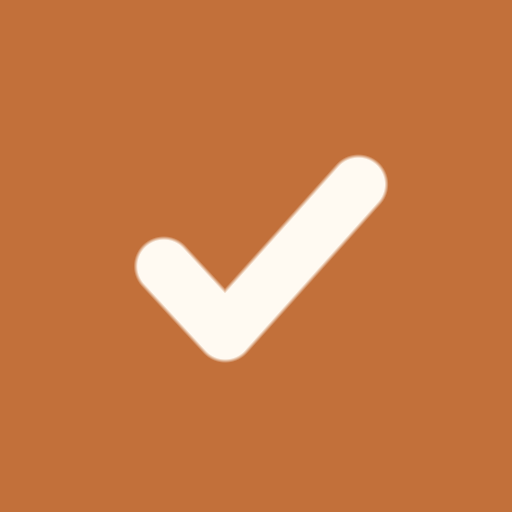
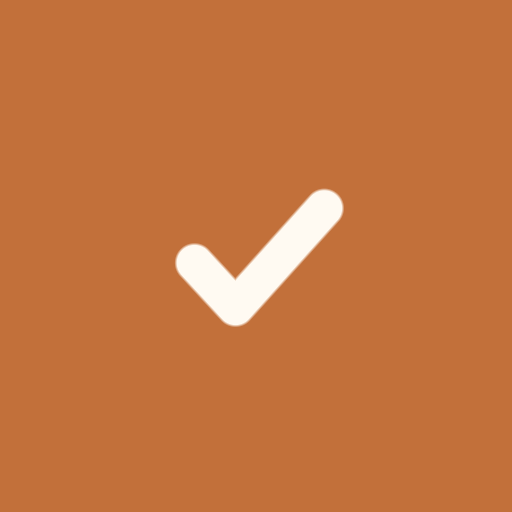
시작 화면 로고를 실제로 줄이고, 아이콘이 저절로 갈아끼워지게 한다 (D-029·D-030)
D-028 은 다른 자리를 고쳤다. 스크린샷의 로고가 스퀘어클인 것으로 보아
시작 화면은 여백 있는 any 가 아니라 꽉 채운 maskable 을 잘라 그린다.
주황 타일은 237dp = 안드로이드 12+ 고정 규격 240dp 라 못 줄인다.
정작 큰 것은 그 안의 체크였다 — 마스크가 1.5배로 확대해 자르는 탓에
캔버스의 49% 가 화면에서는 타일의 74% 가 됐다 (권장 67% 초과).

- 꽉 채운 아이콘의 체크를 72/108 만큼 미리 줄인다. 마스크 뒤 48% 로,
  맥·any 아이콘의 체크와 같은 비율이 된다 (D-030)
- 매니페스트 아이콘 src 에 파일 내용 지문을 ?v= 로 찍는다. 주소가
  바뀌어야 크롬이 갈아끼우므로, 이제 재설치가 필요 없다 (D-029)
- sw 가 아이콘 이름을 직접 적지 않고 매니페스트에서 읽는다. v4 → v5
- 회귀 검사 9번: 지문이 실제 파일과 맞는가, purpose 둘 다 있는가,
  sw 가 이름을 다시 적지 않았는가. 일부러 깨뜨려 잡히는 것까지 확인

검사 197건 + 9번 통과. 마스크를 흉내 내어 그리니 전 그림이 스크린샷과
일치했다. 실기 확인은 아직 — 자동 갱신은 하루 안팎 걸린다.

Claude-Session: https://claude.ai/code/session_01LyNqfSHhK1tNkpEyans6zy

Changed region(s): [[0.25, 0.2812, 0.7812, 0.7188]]

diff --git a/sw.js b/sw.js
@@ -5,13 +5,33 @@
  *   이 앱에서 "전 기기가 같은 루틴을 본다"는 것이 오프라인보다 중요하므로,
  *   항상 새것을 먼저 받아보고 안 되면(비행기 모드 등) 캐시를 쓴다.
  */
-const CACHE = 'routine-v4';
-const ASSETS = ['./', './index.html', './manifest.webmanifest',
-                './icon-192.png', './icon-512.png',
-                './icon-inset-192.png', './icon-inset-512.png'];
+const CACHE = 'routine-v5';
+
+/* 미리 담아 둘 것. **아이콘 이름은 여기에 적지 않는다** — 매니페스트에서 읽는다 (D-029).
+ *   두 곳에 적어 두면 아이콘이 늘거나 이름이 바뀔 때 한쪽을 잊게 되고,
+ *   그 어긋남은 오프라인에서만 조용히 드러나 알아채기 어렵다.
+ *   매니페스트의 `src` 에는 지문(`?v=`)이 붙어 있으므로 그대로 가져다 쓴다. */
+const BASE = ['./', './index.html', './manifest.webmanifest'];
+
+async function assetList() {
+  try {
+    const res = await fetch('./manifest.webmanifest', { cache: 'reload' });
+    const icons = (await res.json()).icons || [];
+    return BASE.concat(icons.map((i) => './' + i.src));
+  } catch (e) {
+    return BASE;          // 매니페스트를 못 읽어도 설치는 된다
+  }
+}
 
 self.addEventListener('install', (e) => {
-  e.waitUntil(caches.open(CACHE).then((c) => c.addAll(ASSETS)).then(() => self.skipWaiting()));
+  e.waitUntil(
+    assetList()
+      .then((list) => caches.open(CACHE).then((c) => c.addAll(list)))
+      // 하나라도 못 받으면 캐시는 비워 둔 채 넘어간다. 미리 담기에 실패했다고
+      // 서비스워커 설치까지 실패하면, 온라인인데도 앱이 갱신을 못 받게 된다
+      .catch(() => {})
+      .then(() => self.skipWaiting())
+  );
 });
 
 self.addEventListener('activate', (e) => {

diff --git a/tools/make-icons.py b/tools/make-icons.py
@@ -5,8 +5,9 @@
 
 만드는 것
     icon-192.png, icon-512.png              캔버스를 꽉 채운다. 파비콘·iOS 홈 화면·
-                                            안드로이드 홈 화면(maskable). OS 가 마스크로
-                                            잘라내는 자리들이다
+                                            안드로이드 홈 화면·시작 화면(maskable).
+                                            OS 가 마스크로 잘라내는 자리들이라,
+                                            체크는 잘릴 것을 미리 계산해 줄여 그린다 (D-030)
     icon-inset-192.png, icon-inset-512.png  824/1024 둥근 사각형 + 투명 여백.
                                             매니페스트의 `any` — 안드로이드 시작 화면
                                             (스플래시)이 이것을 자른 데 없이 그대로 그린다
@@ -18,8 +19,11 @@
     (D-028). 애플 표준 비율은 1024 안의 824(=80.5%), 모서리 반경은 그 크기의 약 22.4% 다.
 """
 
+import hashlib
+import json
 import math
 import os
+import re
 import struct
 import zlib
 
@@ -68,12 +72,27 @@ def check_alpha(nx, ny):
     return max(0.0, min(1.0, (STROKE - d) / 0.008 + 0.5))
 
 
-# ── 웹·안드로이드용: 꽉 채운 정사각형 ────────────────────────────────
+# ── 꽉 채운 정사각형 — 마스크가 잘라내는 자리용 ──────────────────────
+#
+# 안드로이드는 이 그림을 **그대로 쓰지 않는다.** 적응형 아이콘 규격에 따라
+# 가운데 72/108(=66.7%)만 남기고 1.5배로 확대해 마스크 모양으로 자른다.
+# 그래서 체크를 캔버스 기준으로 그리면 화면에서는 1.5배로 부풀어 보인다.
+#
+# 실제로 그랬다 — 시작 화면에서 체크가 타일의 74% 를 차지했고, 이는 안드로이드가
+# 권장하는 67%(240dp 아이콘 안의 160dp)를 넘는다. 그래서 **미리 그 배율만큼
+# 줄여 둔다.** 줄이고 나면 마스크를 거친 뒤가 여백 있는 아이콘(맥·시작 화면)의
+# 체크와 같은 비율이 된다 — 어느 자리에서 봐도 같은 크기로 보인다는 뜻이다 (D-030).
+MASK_VISIBLE = 72 / 108.0
+
+
 def full_bleed(size):
     def rows(y, n):
         out = bytearray()
         for x in range(n):
-            r, g, b = blend(check_alpha((x + 0.5) / n, (y + 0.5) / n))
+            # 가운데를 기준으로 좌표를 넓혀 잡으면 그려지는 체크는 그만큼 작아진다
+            nx = 0.5 + ((x + 0.5) / n - 0.5) / MASK_VISIBLE
+            ny = 0.5 + ((y + 0.5) / n - 0.5) / MASK_VISIBLE
+            r, g, b = blend(check_alpha(nx, ny))
             out += bytes((r, g, b))
         return out
     return rows
@@ -108,6 +127,50 @@ def inset_icon(size):
     return rows
 
 
+# ── 매니페스트에 아이콘 지문을 찍는다 (D-029) ──────────────────────
+#
+# 크롬은 설치된 앱의 아이콘이 바뀌었는지를 **주소**로 먼저 판정한다. 파일 이름을
+# 그대로 두고 그림만 바꾸면 "안 바뀌었다"고 보고 넘어가, 기기에서는 옛 아이콘이
+# 계속 뜬다. 그래서 파일 내용의 지문을 `?v=` 로 붙여 **그림이 바뀌면 주소도 반드시
+# 바뀌게** 한다. 그림이 그대로면 지문도 그대로라 쓸데없는 갱신은 일어나지 않는다.
+
+SRC_RE = re.compile(r'"src":\s*"([A-Za-z0-9._-]+\.png)(?:\?v=[0-9a-f]+)?"')
+
+
+def fingerprint(name):
+    with open(os.path.join(HERE, name), 'rb') as f:
+        return hashlib.sha256(f.read()).hexdigest()[:8]
+
+
+def stamp_manifest():
+    path = os.path.join(HERE, 'manifest.webmanifest')
+    with open(path, encoding='utf-8') as f:
+        before = f.read()
+
+    seen = []
+
+    def repl(m):
+        name = m.group(1)
+        v = fingerprint(name)
+        seen.append((name, v))
+        return f'"src": "{name}?v={v}"'
+
+    after = SRC_RE.sub(repl, before)
+
+    # 고친 것이 여전히 올바른 JSON 인지 반드시 확인한다 — 매니페스트가 깨지면
+    # 앱이 홈 화면에서 아예 앱처럼 뜨지 않는다
+    json.loads(after)
+
+    if after != before:
+        with open(path, 'w', encoding='utf-8') as f:
+            f.write(after)
+
+    print('\n  매니페스트 아이콘 지문' + ('' if after != before else ' (바뀐 것 없음)'))
+    for name, v in seen:
+        print(f'    {name:<22} ?v={v}')
+    return after != before
+
+
 def main():
     for s in (192, 512):
         p = os.path.join(HERE, f'icon-{s}.png')
@@ -123,6 +186,8 @@ def main():
     p = os.path.join(HERE, 'mac', 'icon-mac-1024.png')
     n = write_png(p, 1024, inset_icon(1024), rgba=True)
     print(f'  mac/icon-mac-1024.png  {n:>9,} 바이트   (맥, 824/1024 여백 + 둥근 모서리)')
+
+    stamp_manifest()
 
 
 if __name__ == '__main__':

diff --git a/docs/STATUS.md b/docs/STATUS.md
@@ -19,8 +19,11 @@ https://powerprana7.github.io/morning-evening-routine/ · `routine.app`
 같은 날 **뷰 방식을 루틴의 성질로** 옮겼다 — 순서가 중요한 루틴은 한 항목씩,
 출국 전 체크리스트처럼 순서와 무관한 것은 전체 목록으로 열린다 (D-024).
 목록 뷰는 **순서와 무관하게 아무 줄이나 체크**하고, 끝낸 것은 아래로 내려간다 (D-025).
-2026-09-03 에 **안드로이드 시작 화면(스플래시) 로고를 적당한 크기로** 줄였다 —
-여백을 가진 아이콘을 따로 만들어 그 자리에만 물렸다 (D-028).
+2026-09-03 에 **안드로이드 시작 화면(스플래시) 로고**를 줄였다. 원인은 타일 크기가
+아니라 그 안의 체크였고(타일 240dp 는 안드로이드 고정 규격이라 못 바꾼다), 마스크가
+1.5배로 확대해 자르는 만큼을 미리 빼서 **74% → 48%** 로 줄였다 (D-030).
+같은 날 **아이콘 주소에 지문(`?v=`)이 붙어 저절로 갈아끼워진다** — 이제 아이콘을
+고쳐도 **지우고 다시 설치할 필요가 없다.** 다만 즉시가 아니라 **하루 안팎**이다 (D-029).
 
 ⚠ **`수련과 운동` 7개는 아직 자리표시자다** — 실제 목록을 받아야 한다 (B-27).
 출국 전 체크리스트는 2026-08-28 에 실제 목록 41개로 교체했다 (B-28).
@@ -36,8 +39,8 @@ https://powerprana7.github.io/morning-evening-routine/ · `routine.app`
 | 항목 화면 뷰 | 같은 파일 | **동작** — 루틴이 `one`/`list` 를 정한다. 오른쪽 위 버튼으로 그 회차만 뒤집을 수 있고 저장되지 않는다 (D-024) |
 | 화면 톤 | 같은 파일 | **동작** — 루틴 넷 다 `theme: 'auto'` 로 기기의 밝게/어둡게 설정을 따른다. 이브닝 강제 어둡게는 뺐다 (D-027) |
 | 목록 뷰 체크 | 같은 파일 | **동작** — 줄마다 `완료` 단추. 순서와 무관하고, 끝낸 줄은 아래로 내려가 흐려진다. `✓` 로 취소 (D-025) |
-| 회귀 검사 | `tools/check.sh` | **동작** — **197건 통과**. 루틴이 늘면 검사도 늘어난다 (D-023~D-025). 의존성 0 (JavaScriptCore) |
-| 배포 껍데기 | `manifest.webmanifest`, `sw.js`, `icon-*.png` | **작성됨 · ⚠일부 미검증** — 설치·갱신은 검증됐고(D-014·D-017), **아이콘 다섯 벌 분리(D-028)는 실기 ⚠미확인** |
+| 회귀 검사 | `tools/check.sh` | **동작** — **197건 + 배포 껍데기 검사(9번) 통과**. 루틴이 늘면 검사도 늘어난다 (D-023~D-025). 의존성 0 (JavaScriptCore) |
+| 배포 껍데기 | `manifest.webmanifest`, `sw.js`, `icon-*.png` | **작성됨 · ⚠일부 미검증** — 설치·갱신은 검증됐다(D-014·D-017). 아이콘 주소에 지문이 붙어 **재설치 없이 갈아끼워진다**(D-029). **아이콘 변경(D-028·D-030)은 실기 ⚠미확인** |
 | GitHub Pages | — | **배포됨** — https://powerprana7.github.io/morning-evening-routine/ (B-11) |
 
 ## 검증 상태 — 정확히 어디까지 확인했나
@@ -66,7 +69,8 @@ https://powerprana7.github.io/morning-evening-routine/ · `routine.app`
 | GitHub Pages 배포 | ✅검증 (2026-08-17) | 안드로이드 크롬에서 접속 확인 |
 | **배포본이 기기에 도달하는가** | ✅검증 (2026-08-17) | 두 번째 push(모닝 26개)도 도달. 첫 방문이 아니어도 갱신된다는 뜻이라 **서비스워커 캐시 갱신까지 확인됨** |
 | 안드로이드 홈 화면 설치 | ✅검증 (2026-08-17) | `Routine` 이름으로 설치됨 |
-| **시작 화면 로고 크기 (D-028)** | ⚠미검증 | 크림 바탕 위에 전/후를 나란히 그려 눈으로만 봤다. **안드로이드 실기에서는 못 봤다** — 이미 설치된 앱은 **지우고 다시 설치**해야 새 아이콘이 반영된다 |
+| **시작 화면 로고 크기 (D-030)** | ⚠미검증 | 사용자 스크린샷으로 원인을 짚었다(타일 237dp = 안드로이드 고정 240dp, 체크가 74%). 마스크를 흉내 내어 그리니 **전 그림이 스크린샷과 일치**했고 후 그림은 48%. **실기 확인은 아직** — 자동 갱신(하루 안팎)을 기다리거나 재설치하면 보인다 |
+| **아이콘 자동 갱신 (D-029)** | ⚠일부 검증 | 아이콘을 바꾸자 매니페스트 지문이 저절로 갱신되는 것(`?v=d8defc70` → `?v=5a2952d6`)과 회귀 검사 9번이 그것을 붙잡는 것을 확인. **기기에서 실제로 갈아끼워지는지는 ⚠미확인** — 하루 안팎 뒤에 판정된다 |
 | 터치 기기에서 편집 버튼 감춤 | ✅검증 (2026-08-17) | 안드로이드에서 사라진 것 확인 |
 | **오프라인 실행** | ⚠미검증 | 비행기 모드에서 열리는지 |
 | **자동 갱신 (D-017)** | ✅**검증 (2026-08-17)** | **판정 완료.** 모닝 26개 push 후 안드로이드에서 손대지 않고 새 목록이 도달함 (사용자 확인) |

diff --git a/docs/UPDATES.md b/docs/UPDATES.md
@@ -24,6 +24,59 @@
 
 ---
 
+## 2026-09-03 (2) — 로고가 실제로 작아졌고, 앞으로는 저절로 갈아끼워진다
+
+**한 줄**: 같은 날 (1) 이 **다른 자리를 고쳤다.** 진짜 원인을 잡고, 덤으로 재설치를
+없앴다. (D-029 · D-030)
+
+### 바뀐 것
+
+**1. ⚠ (1) 의 진단이 틀렸다** — 시작 화면 로고는 여백 있는 `any` 아이콘이 아니라
+**꽉 채운 `maskable` 아이콘**을 잘라 그린 것이었다. 스크린샷의 로고가 **스퀘어클**
+모양인 것이 근거다. (1) 의 고침은 설치 대화상자 같은 다른 자리에서 여전히 맞지만,
+**시작 화면은 손대지 못했다.**
+
+**2. 주황 타일 크기는 못 줄인다** — 스크린샷에서 재 보니 **237dp**, 안드로이드 12+
+시작 화면의 고정 규격 **240dp** 다. 큰 것은 타일이 아니라 **그 안의 체크**였다.
+
+**3. 꽉 채운 아이콘의 체크를 72/108 만큼 미리 줄였다** — 마스크가 1.5배로 확대해
+자르니 그만큼 되돌린 것이다.
+
+| | 마스크 뒤, 타일 안에서 체크가 차지하는 폭 |
+|---|---|
+| 전 | **74%** (안드로이드 권장 67% 초과) |
+| 후 | **48%** — 맥 아이콘·`any` 아이콘의 체크와 같은 비율 |
+
+**4. 아이콘 주소에 지문이 붙는다** — `icon-512.png?v=e99bf374` 처럼. 그림이 바뀌면
+주소가 반드시 바뀌므로 크롬이 갈아끼울 것을 알아본다. **지우고 다시 설치할 일이 없다.**
+지문은 `tools/make-icons.py` 가 매니페스트에 직접 찍는다 — 사람이 기억할 일이 아니다.
+
+**5. 서비스워커가 아이콘 이름을 더는 적지 않는다** — 매니페스트를 읽어 쓴다.
+두 곳에 적으면 지문이 붙는 순간 한쪽이 낡고, 그건 오프라인에서만 드러난다.
+`routine-v4` → **`routine-v5`**.
+
+**6. 회귀 검사 9번이 생겼다** — 지문이 실제 파일과 맞는가, `any`·`maskable` 이 다
+있는가, 서비스워커가 아이콘 이름을 다시 적지 않았는가. 어긋난 채 올라가면 기기에서만
+조용히 옛 아이콘이 뜬다.
+
+### 안 바뀐 것
+
+- **본체 동작은 여전히 한 줄도 안 바뀌었다.** 앱 안에 로고 이미지는 없다
+- **주황색·체크 모양·타일 크기** — 줄인 것은 체크의 크기 하나뿐이다
+- 여백 있는 `icon-inset-*` 은 (1) 에서 만든 그대로다
+
+### 확인한 것과 못 한 것
+
+- ✅ 회귀 검사 **197건 + 9번 통과**
+- ✅ 마스크를 흉내 내어 전/후를 그렸고, **전 그림이 스크린샷과 일치**했다 —
+  흉내가 맞다는 근거다
+- ✅ 마스크 뒤 체크 비율을 픽셀로 재서 74% → **48%** 확인
+- ✅ 아이콘을 바꾸자 지문이 저절로 갱신되는 것을 확인 (`?v=d8defc70` → `?v=5a2952d6`)
+- ⚠ **안드로이드 실기에서 못 봤다.** 그리고 이번 것은 **자동 갱신을 기다려야**
+  보인다 — 하루 안팎. 급하면 지우고 다시 설치하면 즉시 보인다
+
+---
+
 ## 2026-09-03 — 시작 화면 로고를 적당한 크기로
 
 **한 줄**: 안드로이드 시작 화면(스플래시)의 로고가 화면을 덮을 만큼 컸다.

diff --git a/CLAUDE.md b/CLAUDE.md
@@ -21,11 +21,12 @@
 루틴 실행기 제작/
 ├── CLAUDE.md              ← 이 문서. 개요와 일하는 방식
 ├── index.html             ★ 본체. 이 파일 하나가 앱 전부다
-├── manifest.webmanifest   홈 화면에 추가했을 때 앱처럼 뜨게 하는 설정
+├── manifest.webmanifest   홈 화면에 추가했을 때 앱처럼 뜨게 하는 설정.
+│                          아이콘 주소의 `?v=` 지문은 손으로 고치지 않는다 (D-029)
 ├── sw.js                  오프라인 실행 (서비스 워커)
-├── icon-192.png           홈 화면 아이콘 · 파비콘 (꽉 채움 — OS 가 잘라내는 자리)
+├── icon-192.png           홈 화면 · 시작 화면 · 파비콘 (꽉 채움. 잘릴 몫을 빼고 그린다 — D-030)
 ├── icon-512.png
-├── icon-inset-192.png     시작 화면(스플래시) 아이콘 (여백 + 둥근 모서리 — D-028)
+├── icon-inset-192.png     자르지 않고 그리는 자리용 (여백 + 둥근 모서리 — D-028)
 ├── icon-inset-512.png
 ├── .nojekyll              GitHub Pages 가 Jekyll 로 건드리지 않게
 ├── mac/
@@ -35,7 +36,7 @@
 │                          .noindex 라 Spotlight·Alfred 가 색인하지 않는다 (D-021)
 ├── tools/
 │   ├── check.sh           회귀 검사
-│   ├── make-icons.py      아이콘 생성 (꽉 채운 것 + 여백 있는 것 + 맥용)
+│   ├── make-icons.py      아이콘 생성 + 매니페스트에 지문 찍기 (D-029)
 │   └── build-mac-app.sh   맥앱 빌드 (--install 로 /Applications 에 설치)
 └── docs/
     ├── STATUS.md          ★ 지금 상태 — 세션을 시작하면 이것부터 읽는다

diff --git a/docs/INDEX.md b/docs/INDEX.md
@@ -37,8 +37,8 @@ DECISIONS 는 *왜 그렇게 정했고 무엇을 버렸는가*(과거형 이력)
 | 무엇 | 경로 | 설명 |
 |---|---|---|
 | 본체 | `index.html` | 이 파일 하나가 전부다. 빌드·서버·외부 파일 없음 (D-002) |
-| 배포 껍데기 | `manifest.webmanifest`, `sw.js`, `icon-*.png` | 홈 화면 아이콘·오프라인. `https` 에서만 동작 (D-014). 아이콘은 **꽉 채운 것**(홈 화면)과 **여백 있는 `icon-inset-*`**(시작 화면) 두 벌이다 (D-028) |
-| 회귀 검사 | `tools/check.sh` | 핵심 로직을 건드렸으면 이걸 돌린다. 197건 |
+| 배포 껍데기 | `manifest.webmanifest`, `sw.js`, `icon-*.png` | 홈 화면 아이콘·오프라인. `https` 에서만 동작 (D-014). 아이콘은 **꽉 채운 것**(홈 화면·시작 화면, 잘릴 것을 빼고 그린다 — D-030)과 **여백 있는 `icon-inset-*`** 두 벌. 주소의 `?v=` 지문이 자동 갱신을 만든다 (D-029) |
+| 회귀 검사 | `tools/check.sh` | 핵심 로직이나 아이콘을 건드렸으면 이걸 돌린다. 197건 + 배포 껍데기 |
 
 ## 이 프로젝트 밖
 
